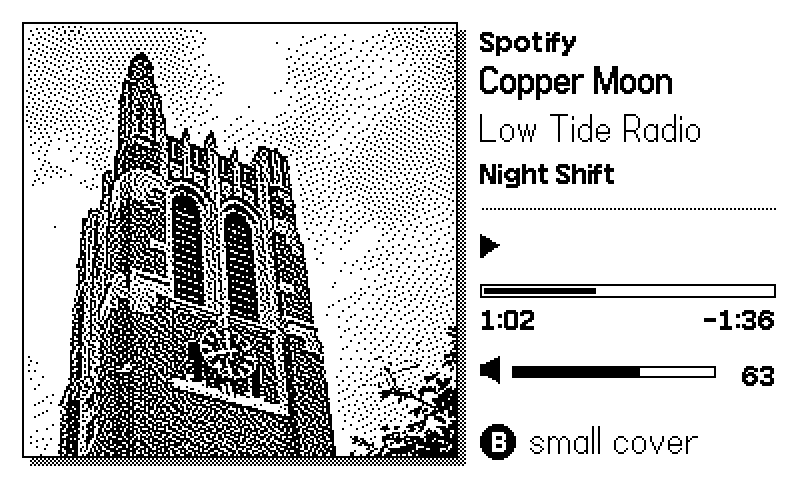
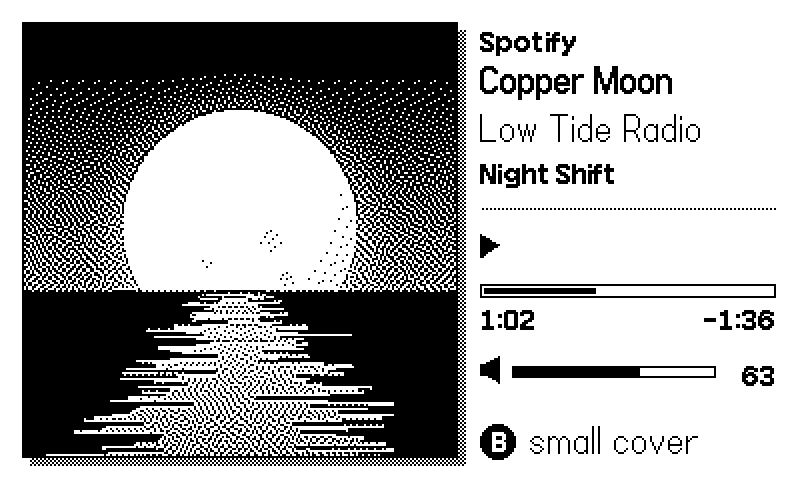
Add files via upload

diff --git a/crank-tunes.html b/crank-tunes.html
@@ -54,7 +54,7 @@
     <img src="crank-tunes-remote.png" alt="Crank Tunes as a remote for Spotify on the computer: the song, its cover, a progress bar and the volume">
     <img src="crank-tunes-bigcover.png" alt="The big cover page: the album cover filling most of the Playdate's screen, with the song beside it">
   </div>
-  <p style="color:var(--ink-dim);font-size:.85rem;max-width:40em">The songs and cover in these pictures are made up for the screenshots; the cover is a photo of Beaumont Tower.</p>
+  <p style="color:var(--ink-dim);font-size:.85rem;max-width:40em">The songs and album covers in these pictures are made up; the covers were drawn for them.</p>
 
   <div class="cl-downloads">
     <a href="CrankTunes-Playdate.zip" download>Playdate app<small>CrankTunes.pdx, about 0.1 MB</small></a>
